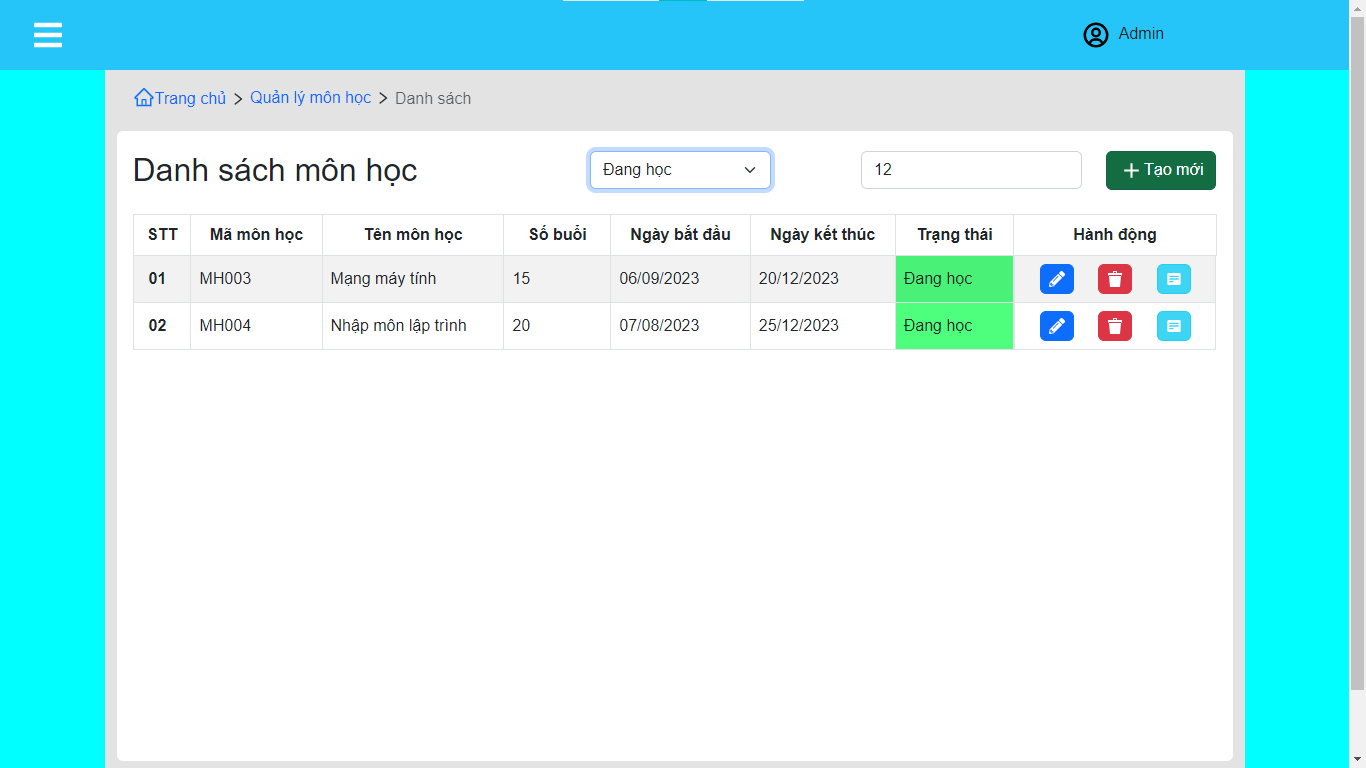
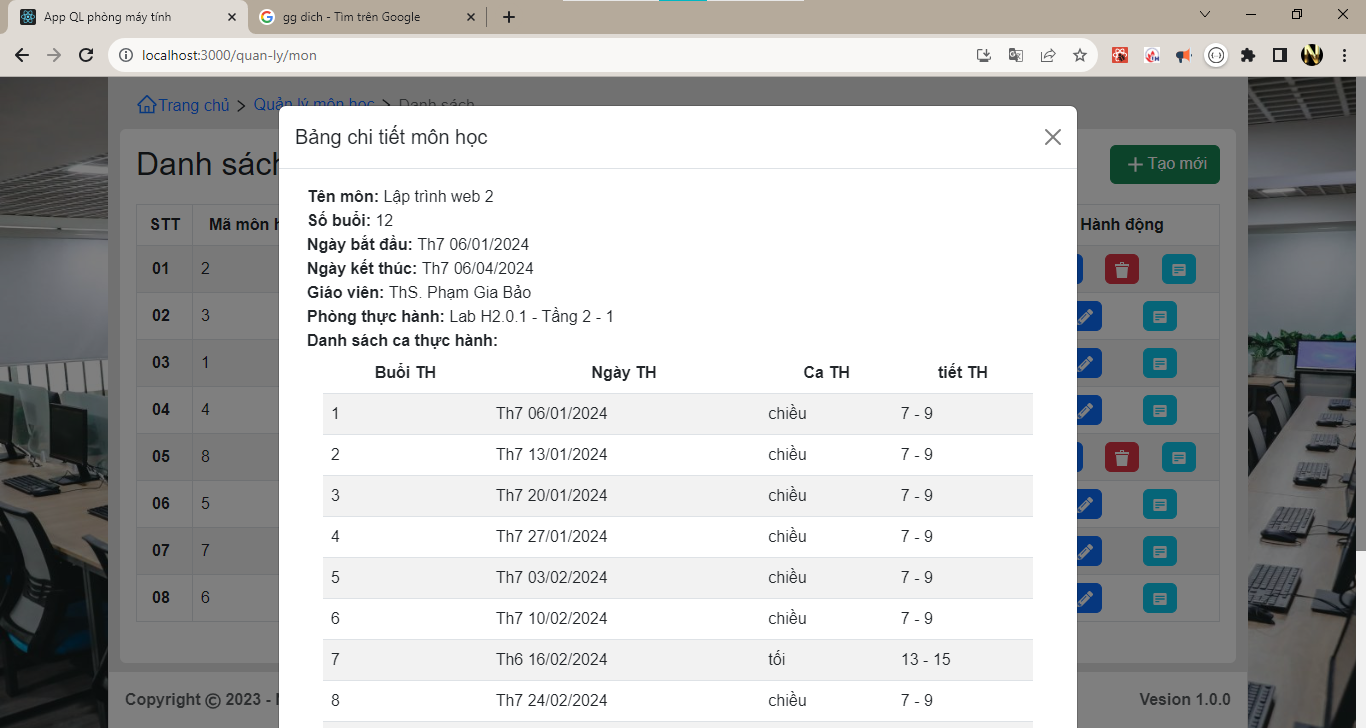
QL Mon hoc finish detail mon hoc

diff --git a/src/components/layout/Detail/DetailMonHoc/ModalDetailMonHoc.jsx b/src/components/layout/Detail/DetailMonHoc/ModalDetailMonHoc.jsx
@@ -1,0 +1,134 @@
+import React from "react";
+import { useSelector } from "react-redux";
+import { formatNameByHocVi, formatStringDate3 } from "../../../../util/config";
+
+export default function ModalDetailMonHoc() {
+  //detailMonHoc
+  let { detailMonHoc } = useSelector((state) => state.monHocReducer);
+  if (detailMonHoc == null || Object.keys(detailMonHoc).length === 0) {
+    return <></>;
+  }
+
+  let { maMon, tenMon, ngayBatDau, soBuoi, dsCaThucHanh } = detailMonHoc;
+  let ngayBD = new Date(ngayBatDau);
+  let ngayKT = new Date(ngayBatDau);
+  ngayKT.setDate(ngayKT.getDate() + (soBuoi + 1) * 7);
+
+  // render
+  let { giaoVien, phongMay } = dsCaThucHanh[0];
+  let txtPhong = `${phongMay.tenPhong} - ${phongMay.tang.tenTang} - ${phongMay.tang.toaNha.maToaNha}`;
+  const renderDSCaThucHanh = () => {
+    return dsCaThucHanh.map((item, index) => {
+      let tgian = new Date(item.ngayThucHanh);
+
+      let strTietTH = `${item.tietBatDau} - ${item.tietKetThuc}`;
+
+      return (
+        <tr key={index}>
+          <td>{item.buoiSo}</td>
+          <td>{formatStringDate3(tgian)}</td>
+          <td>{item.tenCa}</td>
+          <td>{strTietTH}</td>
+        </tr>
+      );
+    });
+  };
+  //
+  return (
+    <>
+      {/* Modal */}
+      <div
+        className="modal fade"
+        id="modalIdDetailMonHoc"
+        tabIndex={-1}
+        role="dialog"
+        aria-labelledby="modalTitleId"
+        aria-hidden="true"
+      >
+        <div className=" modal-dialog modal-lg" role="document">
+          <div className="modal-content">
+            <div className="modal-header">
+              <h5 className="modal-title" id="modalTitleId">
+                Bảng chi tiết môn học
+              </h5>
+              <button
+                type="button"
+                className="btn-close"
+                data-bs-dismiss="modal"
+                aria-label="Close"
+              />
+            </div>
+            <div className="modal-body">
+              <div className="container-fluid">
+                <div>
+                  <div>
+                    <strong>Tên môn: </strong>
+                    <span>{tenMon}</span>
+                  </div>
+                  <div>
+                    <strong>Số buổi: </strong>
+                    <span>{soBuoi}</span>
+                  </div>
+                  <div>
+                    <strong>Ngày bắt đầu: </strong>
+                    <span>{formatStringDate3(ngayBD)}</span>
+                  </div>
+                  <div>
+                    <strong>Ngày kết thúc: </strong>
+                    <span>{formatStringDate3(ngayKT)}</span>
+                  </div>
+                  <div>
+                    <strong>Giáo viên: </strong>
+                    <span>
+                      {formatNameByHocVi({
+                        name: giaoVien.hoTen,
+                        hocVi: giaoVien.hocVi,
+                      })}
+                    </span>
+                  </div>
+                  <div>
+                    <strong>Phòng thực hành: </strong>
+                    <span>{txtPhong}</span>
+                  </div>
+                  <div>
+                    <strong>Danh sách ca thực hành: </strong> <br />
+                    <div className="px-3">
+                      <table className="table w-100 table-striped table-hover align-middle">
+                        <thead>
+                          <tr>
+                            <th scope="col">Buổi TH</th>
+                            <th scope="col">Ngày TH</th>
+                            <th scope="col">Ca TH</th>
+                            <th scope="col">tiết TH</th>
+                          </tr>
+                        </thead>
+                        <tbody
+                          className="over_flow_auto"
+                          style={{ maxHeight: "300px" }}
+                        >
+                          {renderDSCaThucHanh()}
+                        </tbody>
+                      </table>
+                    </div>
+                  </div>
+                </div>
+              </div>
+            </div>
+            <div className="modal-footer">
+              {/* <button
+                type="button"
+                className="btn btn-secondary"
+                data-bs-dismiss="modal"
+              >
+                Close
+              </button> */}
+              {/* <button type="button" className="btn btn-primary">
+                Save
+              </button> */}
+            </div>
+          </div>
+        </div>
+      </div>
+    </>
+  );
+}

diff --git a/src/pages/PageQuanLy/PageQlMonHoc.jsx b/src/pages/PageQuanLy/PageQlMonHoc.jsx
@@ -17,7 +17,9 @@ import {
   getDSPhanmem_idMonhoc,
   setValueSelectAction,
   setValueTxtSearchAction,
+  setdetailMonHocAction,
 } from "../../redux/reducers/monHocReducer";
+import ModalDetailMonHoc from "../../components/layout/Detail/DetailMonHoc/ModalDetailMonHoc";
 
 export default function PageQlMonHoc() {
   const navigate = useNavigate();
@@ -80,12 +82,22 @@ export default function PageQlMonHoc() {
         ngayKT.setDate(ngayKT.getDate() + (soBuoi + 1) * 7);
         let day = new Date();
         if (day > ngayKT) {
-          return <></>;
+          return (
+            <button
+              onClick={() => {
+                alert("Môn học đã kết thúc! không thể chỉnh sửa.");
+              }}
+              type="button"
+              className="btn btn-primary mx-2 px-2"
+              style={{ padding: "2px" }}
+            >
+              <FaPencilAlt color="white" size={16} />
+            </button>
+          );
         }
 
         return (
           <NavLink
-            
             onClick={() => {
               dispatch(getDSPhanmem_idMonhoc(item.maMon));
 
@@ -132,20 +144,32 @@ export default function PageQlMonHoc() {
         let { dsCaThucHanh } = item;
 
         if (dsCaThucHanh.length === 0) {
-          return <></>;
+          return (
+            <button
+              type="button"
+              className="btn btn-info mx-2 px-2"
+              style={{ padding: "2px" }}
+              onClick={() => {
+                alert("Chưa có lịch thực hành!");
+              }}
+            >
+              <BiSolidDetail color="white" size={16} />
+            </button>
+          );
         } else {
           return (
-            <NavLink
-              // to={`../quan-ly/phong`}
-              onClick={() => {
-                alert(`Chi tiết -- ${item.id} -- dang cập nhật!`);
-              }}
+            <button
+              data-bs-toggle="modal"
+              data-bs-target="#modalIdDetailMonHoc"
               type="button"
+              onClick={() => {
+                dispatch(setdetailMonHocAction(item));
+              }}
               className="btn btn-info mx-2 px-2"
               style={{ padding: "2px" }}
             >
               <BiSolidDetail color="white" size={16} />
-            </NavLink>
+            </button>
           );
         }
       };
@@ -233,6 +257,10 @@ export default function PageQlMonHoc() {
   //
   return (
     <div className="container " style={{ height: "100vh" }}>
+
+      {/*  */}
+      <ModalDetailMonHoc />
+
       <div
         className="d-flex flex-column justify-content-between "
         style={{ height: "100vh" }}

diff --git a/src/redux/reducers/monHocReducer.jsx b/src/redux/reducers/monHocReducer.jsx
@@ -81,6 +81,9 @@ const monHocReducer = createSlice({
   name: "monHocReducer",
   initialState,
   reducers: {
+    setdetailMonHocAction: (state, action) => {
+      state.detailMonHoc = action.payload;
+    },
     setArrPhanmemUpdateAction: (state, action) => {
       state.arrPhanmemUpdate = action.payload;
     },
@@ -136,8 +139,11 @@ const monHocReducer = createSlice({
 export const {
   setArrMonHocAction,
   setArrPhanmemUpdateAction,
+  setdetailMonHocAction,
+  //
   setValueSelectAction,
   setValueTxtSearchAction,
+  //
   insertMonHocAction,
   updateMOnhocAction,
   deleteMonHocAction,
